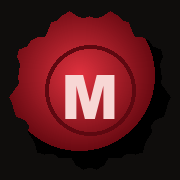
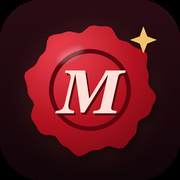
La carta sale de un sobre y gira mágica en 3D; lazo que queda en la mesa; ícono nuevo; celular en calidad alta
- Dentro del regalo hay un sobre: sube de la caja, el sello de cera se parte,
  se abre la solapa, la carta sale hacia arriba, da dos vueltas en el aire
  dejando una estela de chispas doradas y llega frente a la cámara; al final
  la cámara entra en el papel y de ahí aparece la página, sin pasar a 2D
- El listón cae con peso y se queda arrugado sobre la mesa alrededor de la
  caja; el moño ya no desaparece: se queda en la tapa, que cae a un lado
- Ícono nuevo: sello de cera con M en relieve, destello dorado, fondo vino
- Celular: calidad alta por defecto (muebles, resplandor, relieve, cielo HDR,
  texturas de 1024); "Bajar calidad" la cambia y recarga la entrada

diff --git a/intro3d.js b/intro3d.js
@@ -72,8 +72,8 @@ function expediente(){const [c,g]=lienzo(256,340);g.fillStyle='#c9b48a';g.fillRe
 /* ---------- materiales PBR (texturas fotográficas de Poly Haven, CC0) ---------- */
 const TXC={};
 function pbr(n,rep=[1,1],o={}){const tl0=new T.TextureLoader(LM||undefined),tl={load:u=>{const c=u+'|'+rep;return TXC[c]||(TXC[c]=tl0.load(u))}},k=t=>{t.wrapS=t.wrapT=T.RepeatWrapping;t.repeat.set(rep[0],rep[1]);t.anisotropy=MOVIL?2:8;return t};
-  const map=k(tl.load('pbr/'+n+(MOVIL?'_col_1k.jpg':'_col.jpg')));map.encoding=T.sRGBEncoding;
-  if(MOVIL)return new T.MeshStandardMaterial(Object.assign({map,roughness:.92,envMapIntensity:.18},o));
+  const map=k(tl.load('pbr/'+n+(BAJO?'_col_1k.jpg':'_col.jpg')));map.encoding=T.sRGBEncoding;
+  if(BAJO)return new T.MeshStandardMaterial(Object.assign({map,roughness:.92,envMapIntensity:.18},o));
   return new T.MeshStandardMaterial(Object.assign({map,normalMap:k(tl.load('pbr/'+n+'_nor.jpg')),roughnessMap:k(tl.load('pbr/'+n+'_rough.jpg')),roughness:1,envMapIntensity:.35},o))}
 
 /* la libreta: cuatro nombres, tres tachados en rojo */
@@ -130,7 +130,7 @@ function sombra(o){o.traverse(m=>{if(m.isMesh){m.castShadow=true;m.receiveShadow
 function caja(w,h,d,mat,x,y,z,ry=0,padre=S){const m=new T.Mesh(new T.BoxGeometry(w,h,d),mat);m.position.set(x,y,z);m.rotation.y=ry;m.castShadow=m.receiveShadow=true;padre.add(m);return m}
 function calco(textura,w,h,x,y,z,rx,ry,op=1){const m=new T.Mesh(new T.PlaneGeometry(w,h),new T.MeshStandardMaterial({map:textura,transparent:true,depthWrite:false,roughness:.25,metalness:.05,opacity:op,polygonOffset:true,polygonOffsetFactor:-2}));m.position.set(x,y,z);m.rotation.set(rx,ry,0);m.receiveShadow=true;S.add(m);return m}
 const FOTOC={};
-function texFoto(img){if(FOTOC[img])return FOTOC[img];const tx=new T.TextureLoader(LM||undefined).load(img,t=>{const im=t.image;if(MOVIL&&im&&Math.max(im.width,im.height)>768){const f=768/Math.max(im.width,im.height),c=document.createElement('canvas');c.width=Math.round(im.width*f);c.height=Math.round(im.height*f);c.getContext('2d').drawImage(im,0,0,c.width,c.height);t.image=c;t.needsUpdate=true}});tx.encoding=T.sRGBEncoding;return FOTOC[img]=tx}
+function texFoto(img){if(FOTOC[img])return FOTOC[img];const tx=new T.TextureLoader(LM||undefined).load(img,t=>{const im=t.image;if(MOVIL&&im&&Math.max(im.width,im.height)>(BAJO?768:1024)){const f=(BAJO?768:1024)/Math.max(im.width,im.height),c=document.createElement('canvas');c.width=Math.round(im.width*f);c.height=Math.round(im.height*f);c.getContext('2d').drawImage(im,0,0,c.width,c.height);t.image=c;t.needsUpdate=true}});tx.encoding=T.sRGBEncoding;return FOTOC[img]=tx}
 function foto(img,w,h,x,y,z,ry,rz=0){const tx=texFoto(img);
   const g=new T.Group();const marco=new T.Mesh(new T.BoxGeometry(w+.04,h+.06,.004),M({color:'#e9e4d8',roughness:.8}));g.add(marco);
   const p=new T.Mesh(new T.PlaneGeometry(w,h),M({map:tx,roughness:.6}));p.position.set(0,.01,.003);g.add(p);
@@ -168,6 +168,8 @@ function crearMano(lado=1){
 let zonaActual='',LIGERO=false;
 // en celulares la memoria de video es poca: ninguna textura pasa de 1024 px
 const MOVIL=/Android|iPhone|iPad|iPod|Mobile/i.test(navigator.userAgent)||(matchMedia('(pointer:coarse)').matches&&Math.min(screen.width,screen.height)<900);
+// calidad baja solo en celular y solo si ella la eligió (botón "Bajar calidad")
+const BAJO=MOVIL&&(()=>{try{return localStorage.getItem('meliLigero')==='1'}catch(e){return false}})();
 function achicaTexturas(max){const vistas=new Set();S.traverse(o=>{const ms=o.material?(Array.isArray(o.material)?o.material:[o.material]):[];ms.forEach(m=>Object.keys(m).forEach(k=>{const t=m[k];if(!t||!t.isTexture||vistas.has(t))return;vistas.add(t);const im=t.image;
   if(!im||!im.width||Math.max(im.width,im.height)<=max||t.isDataTexture||t.noResize)return;const f=max/Math.max(im.width,im.height),c=document.createElement('canvas');c.width=Math.round(im.width*f);c.height=Math.round(im.height*f);
   try{c.getContext('2d').drawImage(im,0,0,c.width,c.height);t.image=c;t.needsUpdate=true}catch(e){}}))})}
@@ -260,7 +262,7 @@ function construir(cv){
   let preparado=false;
   // se prepara en pasos cortos (con respiros entre uno y otro) para que la página no se congele
   const prepara=()=>{if(preparado)return;preparado=true;cargaProg&&cargaProg(-1);
-    const pasos=[()=>{if(MOVIL)achicaTexturas(768)},()=>zonificar(),
+    const pasos=[()=>{if(MOVIL)achicaTexturas(BAJO?768:1024)},()=>zonificar(),
       ...(MOVIL?[]:['escritorio','afuera','adentro'].map(z=>()=>{aplicaZona(z);R.compile(S,C)})),
       ()=>aplicaZona('escritorio'),()=>{if(!MOVIL)calentar()},()=>avisaListo()];
     const sigue=()=>{const f=pasos.shift();if(!f)return;try{f()}catch(e){console.warn(e)}setTimeout(sigue,30)};setTimeout(sigue,30)};
@@ -305,7 +307,7 @@ function construir(cv){
   const auto=new T.Group();autoPuerta=new T.Group();auto.add(autoPuerta);
   const brS=c=>{const sp=new T.Sprite(new T.SpriteMaterial({map:brillo('rgba(255,255,255,1)'),color:c,depthWrite:false,blending:T.AdditiveBlending,transparent:true}));sp.scale.set(.9,.6,1);return sp};const bR=brS('#ff1a1a'),bA=brS('#2a5bff');bR.position.set(-.22,1.45,.05);bA.position.set(.22,1.45,.05);auto.add(bR,bA);
   const lR=new T.PointLight('#ff2020',0,14,1.6);lR.position.set(0,1.75,0);auto.add(lR);const lA={intensity:0,color:new T.Color()};sirena=[lR,lA,bR,bA];
-  [-.68,.68].forEach((x,i)=>{  const f=i===0?new T.SpotLight('#e8eeff',5.5,32,.42,.45,1.1):new T.Object3D();if(i===0){f.castShadow=!MOVIL;f.shadow.mapSize.set(256,256)}f.position.set(x,.68,-2.3);auto.add(f);const tg=new T.Object3D();tg.position.set(x*.6,.3,-16);auto.add(tg);f.target=tg;
+  [-.68,.68].forEach((x,i)=>{  const f=i===0?new T.SpotLight('#e8eeff',5.5,32,.42,.45,1.1):new T.Object3D();if(i===0){f.castShadow=!BAJO;f.shadow.mapSize.set(256,256)}f.position.set(x,.68,-2.3);auto.add(f);const tg=new T.Object3D();tg.position.set(x*.6,.3,-16);auto.add(tg);f.target=tg;
     const gl=new T.Sprite(new T.SpriteMaterial({map:brillo('rgba(235,240,255,1)'),depthWrite:false,fog:false}));gl.position.set(x,.68,-2.36);gl.scale.set(.7,.45,1);auto.add(gl);
     const cono=new T.Mesh(new T.ConeGeometry(2.6,13,24,1,true),new T.MeshBasicMaterial({color:'#cfd8ff',transparent:true,opacity:.03,depthWrite:false,blending:T.AdditiveBlending,side:T.DoubleSide}));cono.rotation.x=Math.PI/2;cono.position.set(x*.8,.5,-8.8);auto.add(cono)});
   // (el modelo del auto se quitó para aliviar la carga: quedan sus luces en la oscuridad)
@@ -577,7 +579,7 @@ function construir(cv){
   const tope=new T.Mesh(new T.CylinderGeometry(.62,.62,.05,48),nogal);tope.position.y=.78;mesa.add(tope);
   const pie=new T.Mesh(new T.LatheGeometry([new T.Vector2(.3,0),new T.Vector2(.28,.04),new T.Vector2(.08,.08),new T.Vector2(.05,.3),new T.Vector2(.07,.5),new T.Vector2(.05,.74),new T.Vector2(.12,.76)],24),nogal);mesa.add(pie);
 
-  if(MOVIL){const madT=pbr('wood_floor_worn',[1,1],{color:'#7a4a2a',roughness:.6});tope.material=madT;tope.position.y=.73;pie.scale.y=.73/.78;pie.material=new T.MeshStandardMaterial({color:'#3a2414',roughness:.55});
+  if(BAJO){const madT=pbr('wood_floor_worn',[1,1],{color:'#7a4a2a',roughness:.6});tope.material=madT;tope.position.y=.73;pie.scale.y=.73/.78;pie.material=new T.MeshStandardMaterial({color:'#3a2414',roughness:.55});
     mesa.position.set(0,.3,-7.0);S.add(sombra(mesa))}
   const regalo=new T.Object3D();regalo.position.set(0,1.25,-7.0);S.add(regalo);
   focoMesa=new T.SpotLight('#ffd9a8',0,7,.7,.75,2);focoMesa.position.set(-.18,2.08,-6.95);focoMesa.target=regalo;focoMesa.castShadow=true;focoMesa.shadow.mapSize.set(512,512);focoMesa.shadow.bias=-.0004;S.add(focoMesa);
@@ -606,7 +608,7 @@ function construir(cv){
 
   linterna=new T.SpotLight('#fff0d8',3.2,16,.38,.5,1.4);linterna.castShadow=true;linterna.shadow.mapSize.set(256,256);linterna.shadow.bias=-.0005;linterna.shadow.camera.near=.1;
   S.add(linterna);S.add(linterna.target);
-  if(!MOVIL&&T.EffectComposer&&T.UnrealBloomPass&&T.ShaderPass){try{
+  if(!BAJO&&T.EffectComposer&&T.UnrealBloomPass&&T.ShaderPass){try{
     comp=new T.EffectComposer(R);comp.addPass(new T.RenderPass(S,C));comp.addPass(new T.UnrealBloomPass(new T.Vector2(W()/2,H()/2),.55,.45,.9));if(comp.setPixelRatio)comp.setPixelRatio(pr);
     comp.addPass(new T.ShaderPass({uniforms:{tDiffuse:{value:null},uT:{value:0},uF:{value:0}},
       vertexShader:'varying vec2 vUv;void main(){vUv=uv;gl_Position=projectionMatrix*modelViewMatrix*vec4(position,1.);}',
@@ -616,7 +618,7 @@ function construir(cv){
         void main(){vec3 c=texture2D(tDiffuse,vUv).rgb;c=srgb(max(c,0.));float d=distance(vUv,vec2(.5));c*=smoothstep(.85,.32,d);c+=(h(vUv*800.)-.5)*.045;c*=1.-uF;gl_FragColor=vec4(c,1.);}`}));
     comp.passes[2].renderToScreen=true;R.outputEncoding=T.LinearEncoding}catch(e){console.warn(e);comp=null;R.outputEncoding=T.sRGBEncoding}}
   // modelos fotográficos de Poly Haven (CC0)
-  {if(T.GLTFLoader&&!MOVIL){const gl=new T.GLTFLoader(LM);
+  {if(T.GLTFLoader&&!BAJO){const gl=new T.GLTFLoader(LM);
     const MC={},mod=(n,f)=>{if(MC[n]){MC[n].push(f);return}MC[n]=[f];gl.load('pbr/m/'+n+'/'+n+'.gltf',g=>{const o=g.scene;o.traverse(m=>{if(m.isMesh){m.castShadow=m.receiveShadow=true;if(m.material)m.material.envMapIntensity=.35}});MC[n].forEach((cb,i)=>cb(i?o.clone():o))})};
     const P2=Math.PI/2;const pon=(o,x,y,z,ry=0,e=1)=>{o.position.set(x,y,z);o.rotation.y=ry;o.scale.setScalar(e);S.add(o);return o};
     mod('round_wooden_table_01',o=>pon(o,0,.3,-7.0,0,.75));
@@ -644,7 +646,7 @@ function construir(cv){
     mod('rock_moss_set_01',o=>pon(o,-7.2,0,2.5,1,1));
     mod('fern_02',o=>{[[-1.4,4.5],[1.6,5.8],[-2.6,2.6],[2.7,2.9],[-.9,9],[6,4],[-6,6]].forEach(([x,z],i)=>{const c=o.clone();pon(c,x,0,z,i*1.3,rnd(.8,1.3))})});
   }}
-  if(T.RGBELoader&&!MOVIL){new T.RGBELoader(LM).setDataType(T.UnsignedByteType).load('pbr/noche.hdr',h=>{const pm=new T.PMREMGenerator(R);S.environment=pm.fromEquirectangular(h).texture;
+  if(T.RGBELoader&&!BAJO){new T.RGBELoader(LM).setDataType(T.UnsignedByteType).load('pbr/noche.hdr',h=>{const pm=new T.PMREMGenerator(R);S.environment=pm.fromEquirectangular(h).texture;
     const cubo=new T.WebGLCubeRenderTarget(1024).fromEquirectangularTexture(R,h);S.background=cubo.texture;cieloM.visible=false;h.dispose();pm.dispose()})}
   reloj=new T.Clock();
   addEventListener('resize',()=>{aplicaPR();C.aspect=W()/H();C.fov=W()<H()?76:60;C.updateProjectionMatrix()});
@@ -713,7 +715,7 @@ function camara(t,dt){
   if(zoomK>=0){if(!zIni){zIni=C.position.clone();zMir=mirada.clone()}
     const k=suave(Math.min(1,zoomK)),asp=W()/H(),fA=MOVIL?Math.min(1.2,Math.max(1,.62/asp)):Math.min(1.55,Math.max(1,.8/asp)),lzT=V(-.045-.05*(fA-1),1.165,-7.0),pzT=lzT.clone().add(V(.01,.085+.03*(fA-1),.57).multiplyScalar(fA)),pz=zIni.clone().lerp(pzT,k),lz=zMir.clone().lerp(lzT,k);
     const b=Math.sin(k*Math.PI*2)*.02*(1-k);const ab=R3&&R3.ab>0?R3.ab:0,atras=Math.sin(Math.min(1,ab/2.2)*Math.PI)*.06,em=suave(Math.min(1,Math.max(0,ab-1.9)/1.8))*.06,sube=suave(Math.min(1,Math.max(0,ab-2.2)/1.6));C.position.set(pz.x+b*.6+.02*Math.min(1,ab/2),pz.y-Math.abs(b)+atras*.5+em*.5,pz.z+atras-em);C.position.y+=sube*.08;C.position.z+=sube*.12;const mira0=V(lz.x+.02*Math.min(1,ab/2),lz.y+em*.9+atras*.3+sube*.3,lz.z);
-    if(R3&&ab>3.4){const tp=R3.carta.getWorldPosition(V(0,0,0)),vis=2*Math.tan(C.fov*Math.PI/360),d=Math.max(.29/(.78*vis),CW_/(.88*vis*C.aspect)),ka=suave(Math.min(1,(ab-3.4)/1.5)),kf=suave(Math.min(1,Math.max(0,ab-8.2)/1.0));
+    if(R3&&ab>5.9){const tp=R3.carta.getWorldPosition(V(0,0,0)),vis=2*Math.tan(C.fov*Math.PI/360),d=Math.max(.29/(.78*vis),CW_/(.88*vis*C.aspect)),ka=suave(Math.min(1,Math.max(0,ab-5.9)/1.7)),kf=suave(Math.min(1,Math.max(0,ab-9.1)/1.1));
       const dd=d*(1-kf*.82);C.position.lerp(tp.clone().add(V(0,.004,dd)),ka);C.lookAt(mira0.lerp(tp,ka));return}
     C.lookAt(mira0);return}
   let i=0;while(i<RUTA.length-2&&t>RUTA[i+1][0])i++;
@@ -955,28 +957,36 @@ function crearRegalo3D(){
     ig.fillStyle='#c1121f';ig.font='400 140px "Reenie Beanie", cursive';ig.fillText('— James',512,1100);
     ig.font='70px serif';ig.fillText('♥',760,1180)}
   const iTex=new T.CanvasTexture(ic);iTex.encoding=T.sRGBEncoding;iTex.anisotropy=MOVIL?2:8;
-  const tercio=k=>{const t=iTex.clone();t.needsUpdate=true;t.repeat.set(1,1/3);t.offset.set(0,k/3);return new T.MeshStandardMaterial({map:t,roughness:.92,emissive:'#ffffff',emissiveMap:t,emissiveIntensity:.42})};
   const [oc,og]=lienzo(256,256);og.fillStyle='#efe6d4';og.fillRect(0,0,256,256);for(let k=0;k<1800;k++){og.fillStyle=`rgba(120,95,60,${Math.random()*.06})`;og.fillRect(Math.random()*256,Math.random()*256,2,1)}
-  const papelFuera=new T.MeshStandardMaterial({map:new T.CanvasTexture(oc),roughness:.95,emissive:'#efe6d4',emissiveIntensity:.25}),canto=new T.MeshStandardMaterial({color:'#e6dcc8',roughness:1});
-  const hoja=k=>new T.Mesh(new T.BoxGeometry(CW,CP,.0006),[canto,canto,canto,canto,tercio(k),papelFuera]);
-  const carta=new T.Group();carta.position.set(0,Hh-.07,0);carta.visible=false;G.add(carta);
-  const cMed=hoja(1);carta.add(cMed);
-  const cTop=new T.Group();cTop.position.set(0,CP/2,.0012);carta.add(cTop);const hT=hoja(2);hT.position.y=CP/2;cTop.add(hT);cTop.rotation.x=Math.PI;
-  const cBot=new T.Group();cBot.position.set(0,-CP/2,.0006);carta.add(cBot);const hB=hoja(0);hB.position.y=-CP/2;cBot.add(hB);cBot.rotation.x=-Math.PI;
-  // el sello: cera roja con la M en relieve, sobre la cara de afuera
+  const papelFuera=new T.MeshStandardMaterial({map:new T.CanvasTexture(oc),roughness:.95,emissive:'#efe6d4',emissiveIntensity:.25});
+  const iMat=new T.MeshStandardMaterial({map:iTex,roughness:.9,emissive:'#ffffff',emissiveMap:iTex,emissiveIntensity:.42});
+  // la carta abierta: una hoja con un leve arco de papel
+  const hojaG=new T.PlaneGeometry(.2,.27,12,16);{const pa=hojaG.attributes.position;for(let k=0;k<pa.count;k++){const x=pa.getX(k),y=pa.getY(k);pa.setZ(k,-Math.pow(x/.1,2)*.004+Math.sin(y*30)*.0006)}hojaG.computeVertexNormals()}
+  const carta=new T.Group();carta.visible=false;G.add(carta);
+  const hojaF=new T.Mesh(hojaG,iMat);carta.add(hojaF);const hojaA=new T.Mesh(hojaG,papelFuera);hojaA.rotation.y=Math.PI;hojaA.position.z=-.0004;carta.add(hojaA);
+  // el sobre: papel crema, solapa en triángulo y el sello de cera con la M en relieve
+  const sobre=new T.Group();sobre.position.set(0,Hh-.1,0);sobre.visible=false;G.add(sobre);
+  const sobreM=new T.MeshStandardMaterial({map:new T.CanvasTexture(oc),color:'#f3e3c6',roughness:.9,emissive:'#efe0c4',emissiveIntensity:.18});
+  const cuerpoS=new T.Mesh(new T.BoxGeometry(.23,.17,.004),sobreM);sobre.add(cuerpoS);
+  {const lad=new T.Shape();lad.moveTo(-.115,-.085);lad.lineTo(0,.0);lad.lineTo(.115,-.085);lad.lineTo(-.115,-.085);const f=new T.Mesh(new T.ShapeGeometry(lad),new T.MeshStandardMaterial({color:'#e9d6b4',roughness:.9,emissive:'#e9d6b4',emissiveIntensity:.12}));f.position.z=.0022;sobre.add(f)}
+  const solapa=new T.Group();solapa.position.set(0,.085,.0026);sobre.add(solapa);
+  {const tri=new T.Shape();tri.moveTo(-.115,0);tri.lineTo(.115,0);tri.lineTo(0,-.1);tri.lineTo(-.115,0);const f=new T.Mesh(new T.ShapeGeometry(tri),new T.MeshStandardMaterial({color:'#efdcbc',roughness:.9,side:T.DoubleSide,emissive:'#efdcbc',emissiveIntensity:.14}));solapa.add(f)}
   const [sc0,sg0]=lienzo(256,256);{const g2=sg0.createRadialGradient(100,90,10,128,128,128);g2.addColorStop(0,'#e2323f');g2.addColorStop(.6,'#a10d18');g2.addColorStop(1,'#6a0810');sg0.fillStyle=g2;sg0.fillRect(0,0,256,256);
-    sg0.translate(128,128);sg0.rotate(Math.PI);sg0.fillStyle='rgba(60,0,6,.55)';sg0.font='900 120px Unbounded, sans-serif';sg0.textAlign='center';sg0.textBaseline='middle';sg0.fillText('M',4,10);sg0.fillStyle='#f7c9c9';sg0.fillText('M',0,6)}
+    sg0.fillStyle='rgba(60,0,6,.55)';sg0.font='900 120px Unbounded, sans-serif';sg0.textAlign='center';sg0.textBaseline='middle';sg0.fillText('M',132,138);sg0.fillStyle='#f7c9c9';sg0.fillText('M',128,134)}
   const selloTex=new T.CanvasTexture(sc0);selloTex.encoding=T.sRGBEncoding;selloTex.center.set(.5,.5);selloTex.rotation=-Math.PI/2;
   const cera=new T.MeshPhysicalMaterial({color:'#a10d18',roughness:.35,clearcoat:.6,clearcoatRoughness:.3});
   const sello=new T.Mesh(new T.CylinderGeometry(.019,.021,.005,28),[cera,new T.MeshPhysicalMaterial({map:selloTex,roughness:.35,clearcoat:.6}),cera]);
-  sello.rotation.x=-Math.PI/2;sello.position.set(0,CP/2,-.0028);cTop.add(sello);
-  // pedacitos de cera que saltan al romperlo
-  const frags=[];for(let k=0;k<12;k++){const f=new T.Mesh(new T.BoxGeometry(.006,.005,.003),cera);f.visible=false;carta.add(f);frags.push({m:f,v:V(0,0,0)})}
+  sello.rotation.x=Math.PI/2;sello.position.set(0,-.085,.003);solapa.add(sello);
+  const frags=[];for(let k=0;k<12;k++){const f=new T.Mesh(new T.BoxGeometry(.006,.005,.003),cera);f.visible=false;sobre.add(f);frags.push({m:f,v:V(0,0,0)})}
+  // estela de chispas doradas que deja la carta al girar
+  const NCH=140,chPos=new Float32Array(NCH*3),chCol=new Float32Array(NCH*3),chVida=new Float32Array(NCH);
+  const chG=new T.BufferGeometry();chG.setAttribute('position',new T.BufferAttribute(chPos,3));chG.setAttribute('color',new T.BufferAttribute(chCol,3));
+  const chispas=new T.Points(chG,new T.PointsMaterial({size:.022,map:brillo('rgba(255,226,160,1)'),vertexColors:true,transparent:true,depthWrite:false,blending:T.AdditiveBlending}));chispas.userData={vida:chVida,i:0};chispas.frustumCulled=false;G.add(chispas)
   G.traverse(m=>{if(m.isMesh){m.castShadow=true;m.receiveShadow=true}});hueco.castShadow=false;
   // polvo dorado que sube con la luz al abrir
   const np=60,pp=new Float32Array(np*3);for(let i=0;i<np;i++){pp[i*3]=(Math.random()-.5)*.26;pp[i*3+1]=Hh+Math.random()*.4;pp[i*3+2]=(Math.random()-.5)*.26}
   const pgeo=new T.BufferGeometry();pgeo.setAttribute('position',new T.BufferAttribute(pp,3));const motas=new T.Points(pgeo,new T.PointsMaterial({color:'#ffd9a0',size:.006,transparent:true,opacity:0,depthWrite:false,blending:T.AdditiveBlending}));G.add(motas);
-  R3={G,tapa,bandas,cand,arco,ruedas,leds,hueco,luzDentro,carta,cTop,cBot,sello,frags,mono,motas,etiqueta,giroE:0,objE:0,ab:-1,Hh,LH,D};
+  R3={G,tapa,bandas,cand,arco,ruedas,leds,hueco,luzDentro,carta,sobre,solapa,sello,frags,chispas,mono,motas,etiqueta,giroE:0,objE:0,ab:-1,Hh,LH,D};
 }
 function regalo3DFrame(dt){if(!R3)return;
   {const h=Math.min(dt,.05)/3;R3.ruedas.forEach(r=>{for(let q=0;q<3;q++){r.vel+=((r.obj-r.ang)*700-r.vel*34)*h;r.ang+=r.vel*h}r.g.rotation.x=r.ang;const v=-r.ang*26/(Math.PI*2);r.tx.offset.y=1-(v+2)/26;r.mt.emissiveIntensity=.07+(R3.ab>=0?.4*Math.max(0,Math.sin(Math.min(1,R3.ab/.6)*Math.PI)):0)})}
@@ -990,8 +1000,11 @@ function regalo3DFrame(dt){if(!R3)return;
     const k=c01((a-.35)/.9),y0=R3.Hh*.42,yF=.032;R3.cand.position.y=y0+(yF-y0)*rebote(k);R3.cand.position.z=R3.D/2+.036+.05*s2(k);R3.cand.position.x=.2*s2(k);
     R3.cand.rotation.x=-.12+1.17*s2(c01(k*1.3));R3.cand.rotation.z=-.45*s2(k);R3.cand.rotation.y=-.35*s2(k);
     // .5–1.3: el moño se desata y el listón cae flojo
-    const km=c01((a-.5)/.8);R3.mono.scale.setScalar(1-.75*s2(km));R3.mono.rotation.y=km*1.2;
-    const kb=c01((a-.7)/.6);R3.bandas.position.y=-.02*kb;R3.bandas.scale.set(1+.03*kb,1-kb*.98,1+.03*kb);R3.bandas.visible=kb<.99;
+    const km=c01((a-.5)/.8);R3.mono.rotation.y=-.35*s2(km);R3.mono.rotation.z=.12*s2(km);R3.mono.scale.set(1+.06*s2(km),1-.18*s2(km),1+.06*s2(km));
+    // el listón se afloja y cae con peso: el de la cintura baja hasta la mesa y queda arrugado alrededor de la caja; el vertical se desploma y asoma adelante y atrás
+    {const kb=c01((a-.7)/.65),g=kb*kb,reb=kb>=1?0:Math.abs(Math.sin(kb*Math.PI*2.2))*(1-kb)*.008;const [b1,b2]=R3.bandas.children;
+     b1.position.y=R3.Hh*.5+(.008-R3.Hh*.5)*g+reb;b1.scale.set(1+.07*g,1-.72*g,1+.07*g);b1.rotation.y=.05*g;
+     b2.position.y=R3.Hh/2+(.005-R3.Hh/2)*g;b2.scale.set(1+.15*g,1-.96*g,1+.32*g);b2.rotation.y=.12*g}
     // 1.1–1.6: la tapa sube; 1.6–2.5: se inclina, se desliza y cae a un lado con un rebote
     const yT=R3.Hh+R3.LH/2-.012,ku=s2(c01((a-1.1)/.5)),kf=c01((a-1.6)/.9);
     R3.tapa.position.y=yT+.13*ku-(yT+.13-(R3.LH/2+.002))*(kf*kf)+.025*Math.sin(kf*Math.PI)*(kf>.85?0:1);
@@ -1000,16 +1013,26 @@ function regalo3DFrame(dt){if(!R3)return;
     const kl=c01((a-1.5)/.7);R3.hueco.material.emissiveIntensity=kl*1.3;R3.luzDentro.intensity=kl*2.0;
     R3.motas.material.opacity=kl*.9;{const ar=R3.motas.geometry.attributes.position;for(let i=0;i<ar.count;i++){let y=ar.getY(i)+dt*.08;if(y>R3.Hh+.45)y=R3.Hh;ar.setY(i,y)}ar.needsUpdate=true}
     // 2.0–3.1: la carta sube despacio, se mece y gira hacia ti
-    const kc=c01((a-1.9)/1.7);R3.carta.visible=a>1.9&&!R3.cartaFuera;R3.carta.position.y=R3.Hh-.07+.42*s2(kc);R3.carta.position.x=.012*Math.sin(kc*Math.PI*2);
-    // sale acostada (como estaba guardada) y al pasar el borde se endereza hacia ti
-    const kg=s2(c01((kc-.3)/.6));R3.carta.lookAt(C.position);const qF=R3.carta.quaternion.clone();R3.carta.quaternion.setFromEuler(new T.Euler(-Math.PI/2,0,0)).slerp(qF,kg);R3.carta.rotateZ(.05*Math.sin(kc*Math.PI*3)*(1-kc)+.012*Math.sin(a*1.3)*c01(a-3.6))
-    // 4.6–5.0: el sello se tensa y se parte
-    const ks=c01((a-4.6)/.4);R3.sello.scale.setScalar(ks<.6?1+.18*Math.sin(ks/.6*Math.PI):Math.max(.001,1-(ks-.6)/.4));R3.sello.visible=ks<1;
-    if(a>=4.85&&!R3.partido){R3.partido=true;R3.frags.forEach(f=>{f.m.visible=true;f.m.position.set(rnd(-.01,.01),rnd(-.01,.01),.006);f.v.set(rnd(-.25,.25),rnd(-.05,.3),rnd(.05,.25))})}
-    if(R3.partido)R3.frags.forEach(f=>{if(!f.m.visible)return;f.v.y-=dt*1.2;f.m.position.addScaledVector(f.v,dt);f.m.rotation.x+=dt*9;f.m.rotation.y+=dt*7;if(f.m.position.y<-.4)f.m.visible=false});
-    // 5.0–6.0 se abre el tercio de arriba; 5.4–6.4 el de abajo (con un leve rebote del papel)
-    const kt=c01((a-5.0)/1.0),kd=c01((a-5.4)/1.0),eo=x=>1-Math.pow(1-x,3)+Math.sin(x*Math.PI)*.04;
-    R3.cTop.rotation.x=Math.PI*(1-eo(kt));R3.cBot.rotation.x=-Math.PI*(1-eo(kd))}
+    // 1.9–2.9: el sobre sube de la caja; 5.2–6.4: vuelve a bajar
+    const sb=R3.sobre,kS=c01((a-1.9)/1.0),kV=c01((a-5.2)/1.2);sb.visible=a>1.8&&kV<1;
+    sb.position.set(0,R3.Hh-.1+.3*s2(kS)-.34*s2(kV),0);sb.lookAt(C.position);sb.rotateZ(.035*Math.sin(a*2.1));
+    // 2.9–3.25: el sello se tensa y se parte; 3.15–3.65: se abre la solapa
+    const kse=c01((a-2.9)/.35);R3.sello.scale.setScalar(kse<.6?1+.2*Math.sin(kse/.6*Math.PI):Math.max(.001,1-(kse-.6)/.4));R3.sello.visible=kse<1;
+    if(a>=3.1&&!R3.partido){R3.partido=true;R3.frags.forEach(f=>{f.m.visible=true;f.m.position.set(rnd(-.012,.012),rnd(-.02,0),.006);f.v.set(rnd(-.22,.22),rnd(-.05,.25),rnd(.05,.2))})}
+    if(R3.partido)R3.frags.forEach(f=>{if(!f.m.visible)return;f.v.y-=dt*1.1;f.m.position.addScaledVector(f.v,dt);f.m.rotation.x+=dt*9;f.m.rotation.y+=dt*7;if(f.m.position.y<-.45)f.m.visible=false});
+    R3.solapa.rotation.x=-2.75*s2(c01((a-3.15)/.5));
+    // 3.6–4.6: la carta sale del sobre; 4.6–6.6: sube girando como por magia; después flota frente a vos
+    const kc=c01((a-3.6)/1.0),kM=c01((a-4.6)/2.0),eM=s2(kM),car=R3.carta;car.visible=a>3.55&&!R3.cartaFuera;
+    const yS=R3.Hh-.1+.3;
+    if(kM<=0)car.position.set(0,yS+.2*s2(kc),0);
+    else car.position.set(Math.sin(kM*Math.PI*2)*.075*(1-kM),yS+.2+.12*eM+.01*Math.sin(a*1.6)*eM,Math.sin(kM*Math.PI*4)*.035*(1-kM)+.02*eM);
+    car.scale.set(1,.5+.5*s2(c01((kc-.45)/.55)),1);
+    car.lookAt(C.position);if(kM>0){car.rotateY(eM*Math.PI*4);car.rotateZ(Math.sin(kM*Math.PI*3)*.16*(1-kM))}else car.rotateZ(.03*Math.sin(a*2))
+    // estela de chispas
+    {const ch=R3.chispas,u=ch.userData,pa=ch.geometry.attributes.position,co=ch.geometry.attributes.color;
+     if(a>3.4&&a<7.4)for(let n=0;n<3;n++){const k=u.i++%u.vida.length;u.vida[k]=1;pa.setXYZ(k,car.position.x+rnd(-.1,.1),car.position.y+rnd(-.13,.13),car.position.z+rnd(-.03,.03))}
+     for(let k=0;k<u.vida.length;k++){if(u.vida[k]<=0)continue;u.vida[k]-=dt*.55;pa.setY(k,pa.getY(k)+dt*.03);const v=Math.max(0,u.vida[k]);co.setXYZ(k,v,v*.82,v*.45)}
+     pa.needsUpdate=co.needsUpdate=true}}
 }
 const R3api={
   get tiene3D(){return !!R3},
@@ -1019,7 +1042,7 @@ const R3api={
     [b.min.x,b.max.x].forEach(x=>[b.min.y,b.max.y].forEach(y=>[b.min.z,b.max.z].forEach(z=>{const p=V(x,y,z).project(C);const sx=(p.x*.5+.5)*W(),sy=(-p.y*.5+.5)*H();x0=Math.min(x0,sx);x1=Math.max(x1,sx);y0=Math.min(y0,sy);y1=Math.max(y1,sy)})));return{x:x0,y:y0,w:x1-x0,h:y1-y0}},
   get cuadros(){return cuadros},
   rectRuedas(){if(!R3)return null;let x0=1e9,y0=1e9,x1=-1e9,y1=-1e9;C.updateProjectionMatrix();S.updateMatrixWorld(true);R3.G.updateMatrixWorld(true);[[-.039,-.027],[.039,-.027],[-.039,.019],[.039,.019]].forEach(([x,y])=>{const p=R3.cand.localToWorld(V(x,y,.03)).project(C);const sx=(p.x*.5+.5)*W(),sy=(-p.y*.5+.5)*H();x0=Math.min(x0,sx);x1=Math.max(x1,sx);y0=Math.min(y0,sy);y1=Math.max(y1,sy)});return{x:x0,y:y0,w:x1-x0,h:y1-y0}},
-  abrirRegalo(){return new Promise(ok=>{if(!R3)return ok();R3.ab=0;setTimeout(ok,reducido3D?6600:9300)})},
+  abrirRegalo(){return new Promise(ok=>{if(!R3)return ok();R3.ab=0;setTimeout(ok,reducido3D?7000:9400)})},
   voltea(){if(R3)R3.objE=R3.objE?0:Math.PI},
   rectEtiqueta(){if(!R3)return null;const b=new T.Box3().setFromObject(R3.etiqueta);let x0=1e9,y0=1e9,x1=-1e9,y1=-1e9;[b.min.x,b.max.x].forEach(x=>[b.min.y,b.max.y].forEach(y=>[b.min.z,b.max.z].forEach(z=>{const p=V(x,y,z).project(C);const sx=(p.x*.5+.5)*W(),sy=(-p.y*.5+.5)*H();x0=Math.min(x0,sx);x1=Math.max(x1,sx);y0=Math.min(y0,sy);y1=Math.max(y1,sy)})));return{x:x0,y:y0,w:x1-x0,h:y1-y0}},
   ocultaCarta(){if(R3)R3.cartaFuera=true},
@@ -1028,7 +1051,7 @@ const R3api={
 
 window.Intro3D={
   preparar(cv,prog,listo){cv.addEventListener('webglcontextlost',e=>{e.preventDefault();dispatchEvent(new Event('intro3d-perdido'))},{once:true});cargaProg=prog;cargaListo=listo;construir(cv);camara(0,0);reloj.getDelta();cuadroLoop();if(!T.GLTFLoader)setTimeout(()=>{cargado=true;listo&&listo()},50)},
-  get movil(){return MOVIL},get cargado(){return cargado},get ligero(){return LIGERO},ligero_(on){ponLigero(on)},get cuadros(){return cuadros},
+  get movil(){return MOVIL},get bajo(){return BAJO},get cargado(){return cargado},get ligero(){return LIGERO},ligero_(on){ponLigero(on)},get cuadros(){return cuadros},
   get tiene3D(){return R3api.tiene3D},ruedas:R3api.ruedas,rectRuedas:R3api.rectRuedas,fija:R3api.fija,rectCandado:R3api.rectCandado,abrirRegalo:R3api.abrirRegalo,rectCarta:R3api.rectCarta,ocultaCarta:R3api.ocultaCarta,voltea:R3api.voltea,rectEtiqueta:R3api.rectEtiqueta,
   saltar(){if(!corriendo||apagonT>=0)return false;const meta=44.4;sonar('sirena',0);sonar('descubre');ev.forEach(x=>{if(x.t<meta)x.hecho=true});tAcum=meta;focoT=0;manoEst='fuera';cintaObj=0;puertaObj=1.75;fadeObj=0;mirada=null;camara.salto=true;sonar('lluvia',.35);sonar('escena','regalo');sonar('rechina',1);return true},
   correr(api,fin){pisada=api.paso||pisada;sonar=api.sonar||sonar;linea();alTerminar=fin;t0=performance.now();tAcum=0;corriendo=true},

diff --git a/index.html b/index.html
@@ -13,9 +13,9 @@
 <meta property="og:url" content="https://jamesjsfouam.github.io/para-meli/">
 <meta property="og:image" content="https://jamesjsfouam.github.io/para-meli/og.png">
 <meta name="twitter:card" content="summary_large_image">
-<link rel="apple-touch-icon" href="apple-touch-icon.png">
-<link rel="icon" href="favicon.svg" type="image/svg+xml">
-<link rel="icon" href="favicon-32.png" sizes="32x32" type="image/png">
+<link rel="apple-touch-icon" href="apple-touch-icon.png?v=3">
+<link rel="icon" href="favicon.svg?v=3" type="image/svg+xml">
+<link rel="icon" href="favicon-32.png?v=3" sizes="32x32" type="image/png">
 <link rel="preconnect" href="https://fonts.googleapis.com">
 <link rel="preconnect" href="https://fonts.gstatic.com" crossorigin>
 <link href="https://fonts.googleapis.com/css2?family=Unbounded:wght@500;800;900&family=Inter+Tight:wght@400;500;600;800;900&family=JetBrains+Mono:wght@500;600;700;800&family=Reenie+Beanie&family=Cormorant+Garamond:ital,wght@0,500;0,600;1,500&display=swap" rel="stylesheet">
@@ -946,7 +946,7 @@ let entrando=false,cargaLenta=false,modo2D=false;
 /* modo ligero: se recuerda en esta compu */
 (()=>{const b=$('ligero');if(!b)return;let on=false;try{on=localStorage.getItem('meliLigero')==='1'}catch(e){}
   const etiqueta=b.querySelector('.mono'),pinta=()=>{b.setAttribute('aria-pressed',!on);b.title=on?'Activar calidad alta':'Bajar calidad para ahorrar batería';if(etiqueta)etiqueta.textContent=on?'Mejorar calidad':'Bajar calidad';if(window.Intro3D&&Intro3D.ligero_)Intro3D.ligero_(on)};pinta();
-  b.addEventListener('click',e=>{e.stopPropagation();on=!on;try{localStorage.setItem('meliLigero',on?'1':'0')}catch(e){}pinta()});
+  b.addEventListener('click',e=>{e.stopPropagation();on=!on;try{localStorage.setItem('meliLigero',on?'1':'0')}catch(e){}pinta();if(window.Intro3D&&Intro3D.movil&&!entrando)setTimeout(()=>location.reload(),150)});
   b.addEventListener('keydown',e=>e.stopPropagation())})();
 function entrar(){if(!entrando&&cargaLenta&&!Intro3D.cargado){entrando=true;desbloquea();sin3D();return}if(entrando||!Intro3D.cargado)return;entrando=true;introEnCurso=true;$('saltar').classList.add('ver');desbloquea();$('intro').classList.add('andando');if($('ligero'))$('ligero').classList.add('fuera');{const c0=Intro3D.cuadros||0;setTimeout(()=>{if(introEnCurso&&(Intro3D.cuadros||0)-c0<8)sin3D()},8000)}if(reducido)setTimeout(()=>{try{Intro3D.saltar()}catch(e){}},350);
   Intro3D.correr(apiIntro,()=>{introEnCurso=false;$('saltar').classList.remove('ver');ambiente();setTimeout(()=>{if(!abierto&&window.Intro3D&&Intro3D.voltea)Intro3D.voltea()},12000);const es=$('escena');es.classList.add('r3d');ubicaCandado();es.classList.add('ver');$('intro').style.cursor='default';
@@ -986,8 +986,9 @@ async function abrir(){
     escn.classList.add('abriendo');['ruedasWin','zonas'].forEach(id=>{const e=$(id);if(e)e.style.display='none'});clicFuerte();tono(1850,ctx()?ctx().currentTime:0,.003,.03,.25,'triangle');
     const c=ctx(),gg=(v,f)=>golpeGrave(c?c.currentTime:0,f,v);setTimeout(()=>{gg(.45,140);ruido(.3,2600,6,.25)},780);setTimeout(()=>gg(.18,180),980);setTimeout(()=>ruido(.6,1500,1,.2,true),520);
     setTimeout(()=>ruido(.25,700,2,.15),1100);setTimeout(()=>whoosh(),1600);setTimeout(()=>{gg(.3,95)},2380);setTimeout(()=>acordeRevelacion(),1550);setTimeout(()=>ruido(.7,3200,.9,.2,true),2050);
-    setTimeout(()=>{clicFuerte();ruido(.15,1500,3,.4)},4850);setTimeout(()=>ruido(.55,3600,.8,.2,true),5050);setTimeout(()=>ruido(.55,3300,.8,.2,true),5450);
-    setTimeout(()=>{const c2=ctx();if(c2){tono(1318.51,c2.currentTime,.01,.035,2);tono(1975.5,c2.currentTime+.14,.01,.025,1.8)}},6100);
+    setTimeout(()=>{clicFuerte();ruido(.15,1500,3,.4)},3100);setTimeout(()=>ruido(.5,3600,.8,.18,true),3250);setTimeout(()=>ruido(.9,3000,.6,.16,true),3650);
+    setTimeout(()=>{const c2=ctx();if(c2)[1318.51,1567.98,1975.53,2349.32,2637.02,3135.96].forEach((f,k)=>tono(f,c2.currentTime+k*.16,.01,.028,1.6))},4600);
+    setTimeout(()=>{const c2=ctx();if(c2){tono(1318.51,c2.currentTime,.01,.035,2.2);tono(1975.5,c2.currentTime+.14,.01,.025,2)}},6700);
     $('saltar').classList.remove('ver');
     await Intro3D.abrirRegalo();
     {const v=$('veloCarta');if(v){v.innerHTML='';v.classList.add('final');requestAnimationFrame(()=>v.classList.add('on'))}}
@@ -1195,7 +1196,7 @@ els[0].focus({preventScroll:true});
 <script src="vendor/RenderPass.js"></script>
 <script src="vendor/ShaderPass.js"></script>
 <script src="vendor/UnrealBloomPass.js"></script>
-<script src="intro3d.js?v=191"></script>
+<script src="intro3d.js?v=202"></script>
 <script>iniciaIntro()</script>
 </body>
 </html>
